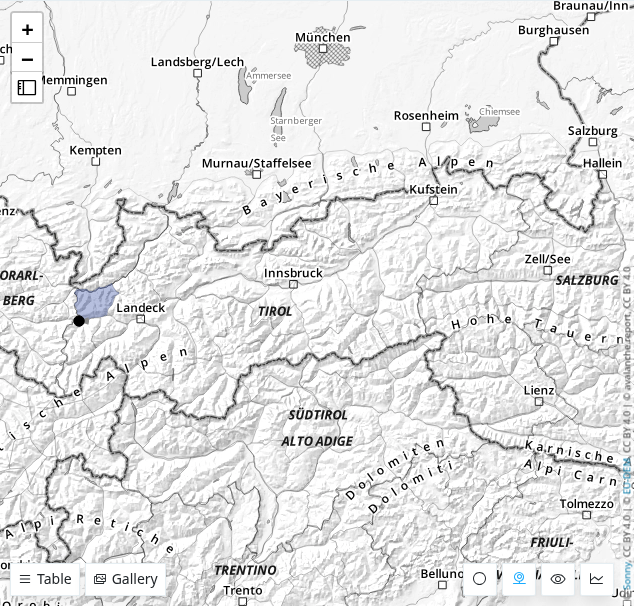
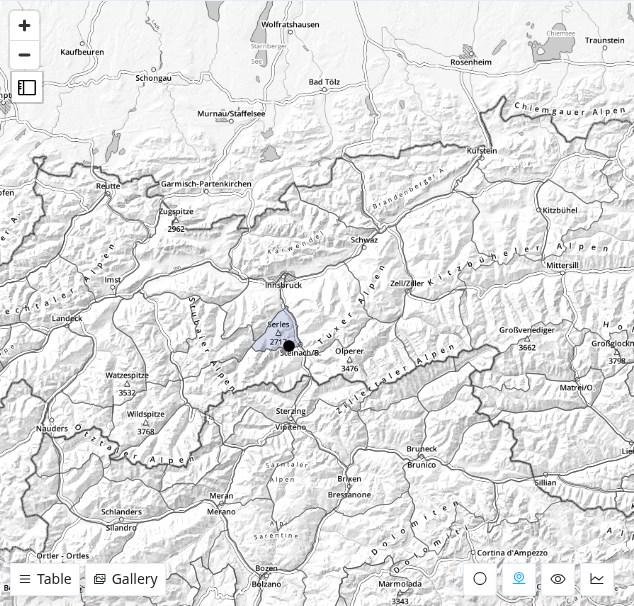
chore(playwright): update map tests

diff --git a/tests/observations.spec.ts b/tests/observations.spec.ts
@@ -268,7 +268,7 @@ test("Webcams and Observers", async ({ page }) => {
     await page.getByText("Map", { exact: true }).click();
     await page.getByTitle("Observations").click();
     await page.getByTitle("Observers").click();
-    await page.getByRole("button", { name: "Observer-undefined" }).click();
+    await page.getByRole("button", { name: "Map marker" }).click();
     await expect(page.getByRole("dialog").getByRole("img")).toHaveAttribute(
       "src",
       "https://wiski.tirol.gv.at/lawine/grafiken/800/beobachter/Nordkette.png",
@@ -280,12 +280,12 @@ test("Webcams and Observers", async ({ page }) => {
     await page.getByTitle("Webcams").click();
     // select region with unique webcam
     await page.getByRole("button", { name: "Region", exact: true }).click();
-    await page.getByRole("checkbox", { name: "Lechtal Alps West" }).check();
+    await page.getByRole("checkbox", { name: "Serles Ridge" }).check();
     await page.getByRole("checkbox", { name: "Karwendel Mountains West" }).uncheck();
     await page.getByRole("button", { name: "Region", exact: true }).click();
     await expect(page.locator("#observationsMap")).toHaveScreenshot("webcamMap.png", { maxDiffPixelRatio: 0.1 });
-    await page.getByRole("button", { name: "FotoWebcamsEU-undefined" }).click();
-    await expect(page.locator("iframe")).toHaveAttribute("src", "https://www.foto-webcam.eu/webcam/st-anton/");
+    await page.getByRole("button", { name: "Map marker" }).click();
+    await expect(page.locator("iframe")).toHaveAttribute("src", "https://www.foto-webcam.eu/webcam/trins/");
   });
 });
 